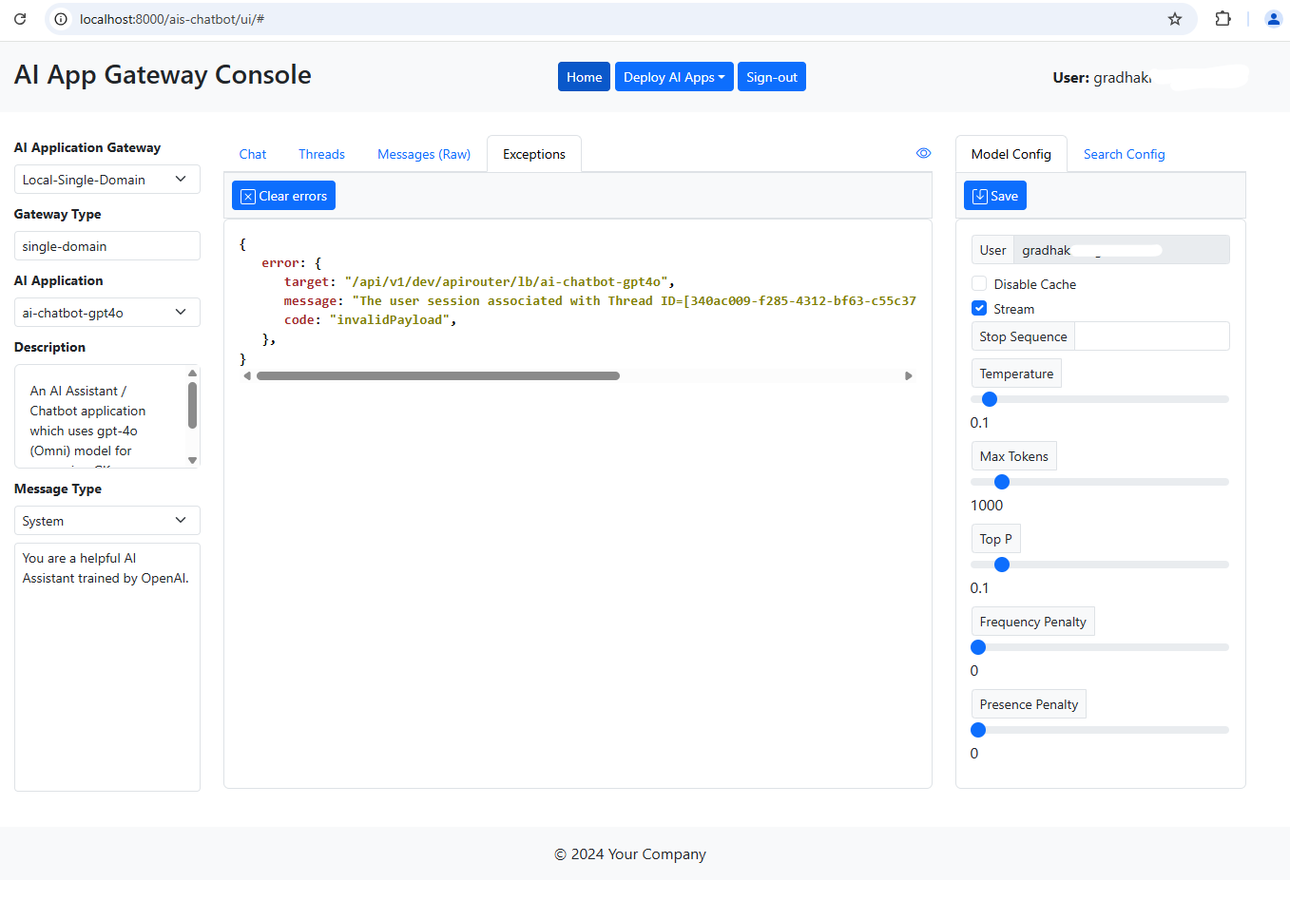
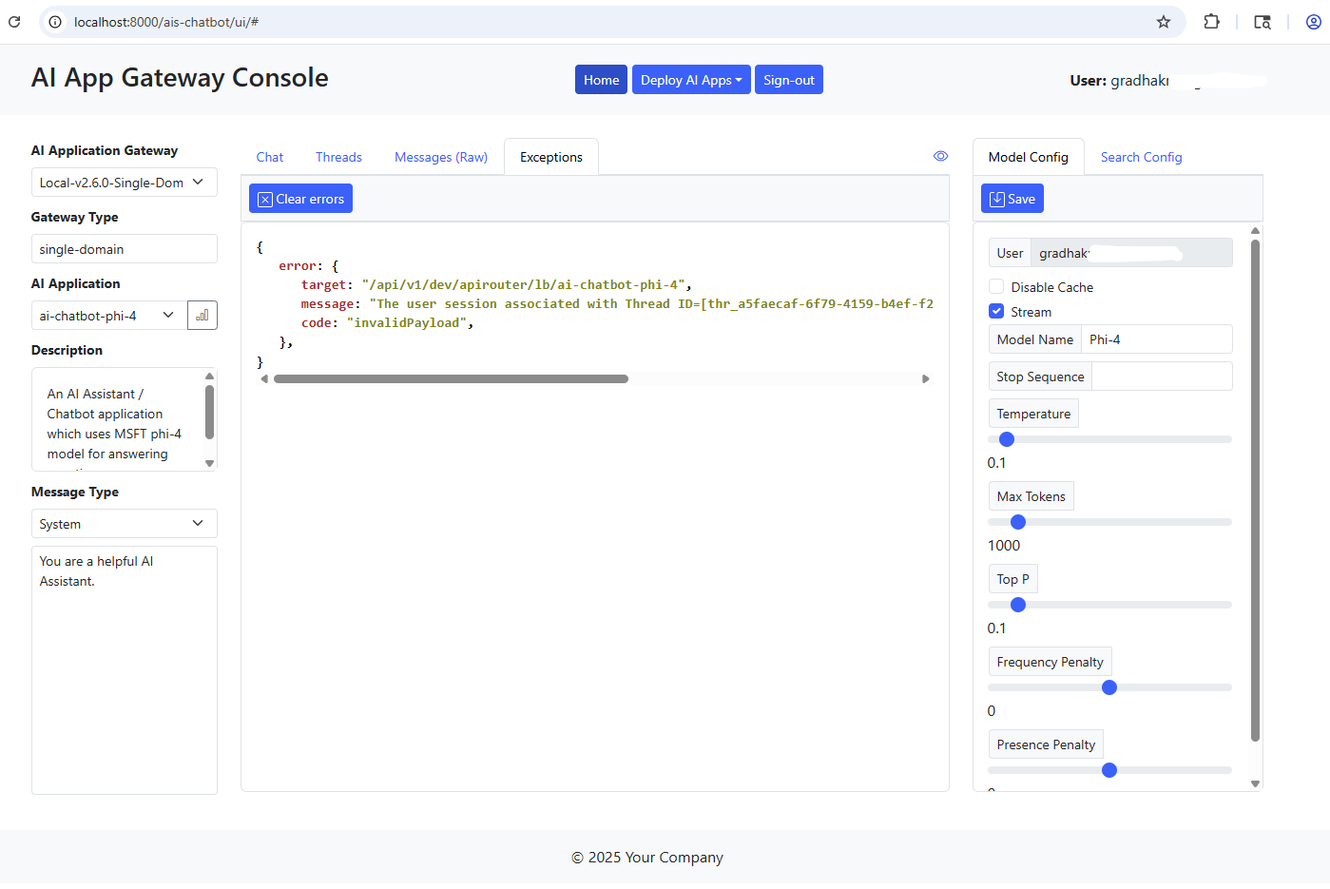
v2.6.0 Release

diff --git a/frontend/jscripts/aiAppForm.js b/frontend/jscripts/aiAppForm.js
@@ -8,6 +8,9 @@
  * Notes:
  * ID04302025: ganrad: v2.3.2-v1.3.0: Introduced new fields - applyAffinity and endpoint id.
  * ID05142025: ganrad: v2.3.8-v1.3.0: Introduced fields for personalization / long term user memory feature.
+ * ID09192025: ganrad: v2.6.0-v1.3.2: (Bugfix) 1) When defining a new AI App., AI Model Inf. API fails if 'stop' parameter contains an 
+ * empty string.  Hence commented out stop parameter. Same with presence and frequency penalty. 2) Search distance value was being sent as-is (0 - 100).  Value is now converted 
+ * into a decimal value between 0.0 & 1.0 before the AI App definition is sent to the server.
  */
 let priorityCounter = 0; // Endpoint uri priority counter
 
@@ -140,7 +143,7 @@ document.addEventListener('DOMContentLoaded', function() {
       return;
     const epid = document.getElementById('epId').value; // ID04302025.n
 
-    const rpm = document.getElementById('rpm').value;
+    const rpm = document.getElementById('rpm').value || 0;
 
     const tbody = table.querySelector('tbody');
     const newRow = document.createElement('tr');
@@ -197,6 +200,8 @@ async function callAiAppGatewayApi(appObject) { // private
     requestHdrs.append('Authorization', bearer);
   };
 
+  console.log(`callAiAppGatewayApi(): AI App Payload:\n${JSON.stringify(appObject, null, 2)}`);
+
   let respJson;
   const tstatus = document.getElementById('toastStatus');
   try {
@@ -227,7 +232,7 @@ async function callAiAppGatewayApi(appObject) { // private
       }
     };
     tstatus.innerHTML = "<span class='text-danger'>" + "FAILED" + "</span>";
-    console.log(`callAiAppGatwayApi(): Encountered exception\n  ${respJson}`);
+    console.log(`callAiAppGatwayApi(): Encountered exception\n${respJson}`);
   };
 
   return(respJson);
@@ -274,7 +279,7 @@ async function registerAiAppInServer(payload) { // private
       console.log(`registerAiAppInServer(): Encountered exception while registering AI App in Frontend server.  Check server logs.\n  ${data}`);
   }
   catch (error) {
-    console.log(`registerAiAppInServer(): Encountered exception. Check server logs.\n  ${error}`);
+    console.log(`registerAiAppInServer(): Encountered exception. Check server logs.\n${error}`);
   };
 
   return(ret_val);
@@ -299,13 +304,13 @@ async function registerAiApp(appId,desc) { // private
           max_tokens: 1000,
           top_p: 0.1,
           stream: false,
-          stop: "",
-          frequency_penalty: 0,
-          presence_penalty: 0
+          // stop: "", ID09192025.o
+          // frequency_penalty: 0,
+          // presence_penalty: 0
         }
       }
     };
-    console.log(`Sending Payload:\n ${JSON.stringify(req_body,null,2)}`);
+    console.log(`registerAiApp(): Sending Payload:\n${JSON.stringify(req_body,null,2)}`);
 
     // Register Ai App in frontend (UI) server
     const st = await registerAiAppInServer(req_body);
@@ -353,7 +358,7 @@ async function deployAiApplication() {
       cacheObject.useCache = true;
       const srchTypeElem = document.getElementById('searchType');
       cacheObject.searchType = srchTypeElem.options[srchTypeElem.selectedIndex].value;
-      cacheObject.searchDistance = parseInt(document.getElementById('searchDistance').value);
+      cacheObject.searchDistance = parseInt(document.getElementById('searchDistance').value) / 100; // ID09192025.n
       const srchContentObject = new Object();
       const srchTermElem = document.getElementById('term');
       srchContentObject.term = srchTermElem.options[srchTermElem.selectedIndex].value;
@@ -388,6 +393,8 @@ async function deployAiApplication() {
       longTermMemObject.generateFollowupMsgs = followups.checked;
 
       longTermMemObject.userFactsAppName = document.getElementById('factsAppName').value;
+      const extRoleElem = document.getElementById('extractRoles');
+      longTermMemObject.extractRoleValues = extRoleElem.options[extRoleElem.selectedIndex].value;
       longTermMemObject.extractionPrompt = document.getElementById('extractionPrompt').value;
       longTermMemObject.followupPrompt = document.getElementById('followUpPrompt').value;
     }
@@ -402,12 +409,13 @@ async function deployAiApplication() {
 
       const cells = row.querySelectorAll('td');
       endpointObj.id = cells[1].textContent; // ID04302025.n
-      endpointObj.rpm = parseInt(cells[2].textContent);
+      // endpointObj.rpm = parseInt(cells[2].textContent, 10;  // ID09192025.o
       endpointObj.uri = cells[3].textContent;
       endpointObj.apikey = cells[4].textContent;
       // console.log(`Priority: ${rowIndex}, Uri: ${endpointObj.uri}`);
       
-      endpointsArray.push(endpointObj);
+      // Use conditional short-circuiting to add the rpm attribute)
+      endpointsArray.push( { ...endpointObj, ...(parseInt(cells[2].textContent, 10) > 0 && { rpm: parseInt(cells[2].textContent, 10)}) }); // ID09192025.n
     });
 
     let aiAppObj = {
@@ -420,11 +428,11 @@ async function deployAiApplication() {
       personalizationSettings: longTermMemObject, // ID05142025.n
       endpoints: endpointsArray
     };
-    console.log(`AI Application:\n ${JSON.stringify(aiAppObj, null, 2)}`);
+    // console.log(`AI Application:\n ${JSON.stringify(aiAppObj, null, 2)}`);
 
     // 2. Call Ai App Gateway CP API to post the new Ai App definition
     const responseObj = await callAiAppGatewayApi(aiAppObj);
-    console.log(`AI App Gateway Response:\n ${JSON.stringify(responseObj, null, 2)}`);
+    console.log(`deployAiApplication(): AI App Gateway Response:\n${JSON.stringify(responseObj, null, 2)}`);
     // spinnerOverlay.classList.add('d-none'); // Hide the spinner overlay (busy icon)
 
     // 3. Register Ai App Definition with Frontend (UI) server

diff --git a/frontend/jscripts/ai-gateway-core.js b/frontend/jscripts/ai-gateway-core.js
@@ -32,7 +32,9 @@
  * ID08052025: ganrad: v2.4.0-v1.3.1: (Enhancement) Model name can now be specified by the user (in UI) and passed to the AI App Gateway.
  * ID08282025: ganrad: v2.4.5-v1.3.1: (Bugfix) Az Direct Models such as Llama, Grok do not require a 'system' message.
  * ID09162025: ganrad: v2.6.0-v1.3.2: (Enhancement) Introduced support for user feedback capture for models/agents deployed on Azure AI Foundry.
+ * ID09192025: ganrad: v2.6.0-v1.3.2: (Bugfix) AI Model Inf. API fails if 'stop' parameter is sent with null/"" value.
 */
+
 // Adjust the system prompt as needed
 const defaultPrompt = "You are a helpful AI Assistant trained by OpenAI."; // Default prompt
 const uiUserName = "user-" + Date.now().toString(36) + Math.random().toString(36).substring(2, 8); // ID06062025.n
@@ -260,7 +262,7 @@ function setInferenceTarget() {
   document.getElementById("uid").value = isAuthEnabled ? username : uiUserName; // ID06062025.n
   document.getElementById("stream").checked = aiAppObject.model_params.stream;
   document.getElementById("stopSequence").value = aiAppObject.model_params.stop ?? ''; // ID08052025.n
-  document.getElementById("modelName").value = aiAppObject.model ?? ''; // ID08052025.n
+  document.getElementById("modelName").value = aiAppObject.model_params.model ?? ''; // ID08052025.n
   document.getElementById("temperature").value = aiAppObject.model_params.temperature;
   document.getElementById("temp_o").value = aiAppObject.model_params.temperature;
   document.getElementById("mtokens").value = aiAppObject.model_params.max_tokens;
@@ -275,7 +277,7 @@ function setInferenceTarget() {
 
   // Construct & populate a new prompt object
   promptObject = {
-    model: aiAppObject.model, // ID06162025.n
+    model: aiAppObject.model_params.model, // ID06162025.n
     messages: [],
     // max_tokens: aiAppObject.model_params.max_tokens,  // ID06052025.n
     max_completion_tokens:  aiAppObject.model_params.max_tokens,
@@ -285,10 +287,20 @@ function setInferenceTarget() {
     // stream_options: aiAppObject.model_params.stream ? { include_usage: true } : null,
     temperature: aiAppObject.model_params.temperature,
     top_p: aiAppObject.model_params.top_p,
-    stop: aiAppObject.model_params.stop ?? null, // ID08052025.n
-    presence_penalty: aiAppObject.model_params.presence_penalty ?? null,
-    frequency_penalty: aiAppObject.model_params.frequency_penalty ?? null
+    // stop: aiAppObject.model_params.stop ?? null, // ID08052025.n, ID09192025.o
+    // presence_penalty: aiAppObject.model_params.presence_penalty ?? null, // ID09192025.o
+    // frequency_penalty: aiAppObject.model_params.frequency_penalty ?? null // ID09192025.o
   };
+
+  // presence_penalty and frequency_penalty are not supported by all ADM's.  Hence this unnecessary workaround! ID09192025.n
+  promptObject = {
+    ...promptObject,
+    ...( aiAppObject.model_params.presence_penalty !== undefined && { presence_penalty: aiAppObject.model_params.presence_penalty} ),
+    ...( aiAppObject.model_params.frequency_penalty !== undefined && { frequency_penalty: aiAppObject.model_params.frequency_penalty} )
+  };
+
+  if ( aiAppObject.model_params.stop ) // ID09192025.n
+    promptObject.stop = aiAppObject.model_params.stop;
 
   // Create and populate ai search data source
   let srchParams = aiAppObject.search_params;
@@ -404,10 +416,10 @@ function saveContent(configName) {
     promptObject.max_completion_tokens = Number(document.getElementById("mtokens").value); // ID06052025.n
     promptObject.temperature = Number(document.getElementById("temperature").value);
     let value = Number(document.getElementById("presence").value); // ID08052025.n
-    if ( value > 0 )
+    if ( value !== 0 )
       promptObject.presence_penalty = value;
     value = Number(document.getElementById("frequency").value);
-    if ( value > 0 )
+    if ( value !== 0 )
       promptObject.frequency_penalty = value;
     value = document.getElementById("stopSequence").value; // ID11082024.n
     if ((value !== "undefined") && (value.trim().length > 0))

diff --git a/frontend/public/index.html b/frontend/public/index.html
@@ -339,13 +339,13 @@
               <div class="input-group input-group-sm mb-2">
                 <span class="input-group-text">Frequency Penalty</span>
                 <input id="frequency" type="range" aria-label="Frequency Penalty" class="form-range" value="0"
-                  step="0.1" min="0" max="2" oninput="this.nextElementSibling.value = this.value" /><output
+                  step="0.01" min="-2" max="2" oninput="this.nextElementSibling.value = this.value" /><output
                   id="freq_o"></output>
               </div>
               <div class="input-group input-group-sm mb-2">
                 <span class="input-group-text">Presence Penalty</span>
-                <input id="presence" type="range" aria-label="Presence Penalty" class="form-range" value="0" step="0.1"
-                  min="0" max="2" oninput="this.nextElementSibling.value = this.value" /><output id="perf_o"></output>
+                <input id="presence" type="range" aria-label="Presence Penalty" class="form-range" value="0" step="0.01"
+                  min="-2" max="2" oninput="this.nextElementSibling.value = this.value" /><output id="perf_o"></output>
               </div>
             </div>
           </div>
@@ -506,12 +506,13 @@
                 <div class="col">
                   <div class="form-floating mb-1">
                     <select class="form-select form-select-sm" id="appType" name="appType" required>
+                      <option value="azure_oai" selected>Azure OpenAI</option>
+                      <option value="azure_aimodel_inf">Azure AI Model Inference</option>
+                      <option value="azure_ai_agent">AI Foundry Agent</option>
                       <option value="azure_language">Azure Language</option>
                       <option value="azure_translator">Azure Translator</option>
                       <option value="azure_content_safety">Azure Content Safety</option>
                       <option value="azure_search">Azure Search</option>
-                      <option value="azure_oai" selected>Azure OAI</option>
-                      <option value="azure_aimodel_inf">Azure AI Model Inf</option>
                     </select>
                     <label class="form-label" for="appType">Type of AI Application</label>
                   </div>
@@ -728,7 +729,7 @@
               <div class="col">
                 <div class="form-floating mb-1">
                   <input class="form-control form-control-sm" id="epId" name="epId" type="text"
-                    placeholder="Unique Endpoint ID" />
+                    placeholder="Unique Endpoint/Agent ID" />
                   <label class="form-label" for="uri">Unique Endpoint ID</label>
                 </div>
               </div>

diff --git a/frontend/README.md b/frontend/README.md
@@ -1,18 +1,18 @@
 # AI Application Gateway Console (Single Page Application/Frontend)
 
-This AI Gateway console application provides a thin client (browser) based user interface for interacting with AI Applications deployed on Azure AI Application Gateway's. It's meant to be a starting point, and you're welcome to use it as is or customize and integrate the user interface components into your own web applications.
+The AI Gateway console application provides a thin client (browser) based user interface for interacting with AI Applications deployed on Azure AI Application Gateway's. It's meant to be a starting point, and you're welcome to use it as is or customize and integrate the user interface components into your own web applications.
 
 The gateway console application can be used for completing the following tasks -
 1. Define and deploy new AI Applications on local/remote AI Application Gateway instances.  These instances could be distributed and running on disparate hosts within the Azure network.
 2. Interact with deployed AI Applications using the chat user interface
-3. Evaluate and explore value add features supported by the AI Application Gateway such as caching, state management, observability, intelligent traffic management, LLM response streaming, A/B testing of LLM's ... other features.
+3. Evaluate and explore value add features supported by the AI Application Gateway such as caching, state management, long term memory, cost tracking, observability, intelligent traffic management, user feedback tracking, LLM response streaming, A/B testing of LLM's ... other features.
 
 The sections below detail the following steps -
 
 1. Running the AI Gateway Console application on a Azure Linux virtual machine (Standalone server)
-2. Containerizing the console application and running it on a Azure Linux VM
-3. Using the gateway console to define and deploy an AI Application on a running AI Application Gateway instance
-3. Deploying and running the gateway console application as a containerized microservice on Kubernetes (AKS)
+2. Using the gateway console to define and deploy an AI Application on a AI Application Gateway instance
+3. Containerizing the console application and running it on a Azure Linux VM
+4. Deploying and running the gateway console application as a containerized microservice on Kubernetes (AKS)
 
 Containerized deployment of AI Application Gateway Console is highly recommended for production deployments.
 
@@ -40,7 +40,7 @@ Containerized deployment of AI Application Gateway Console is highly recommended
 
 3. Configure AI Application Gateway's and AI Applications.
 
-   The AI Application Gateway Console can be used to interact with AI Applications which have been configured with one or more AI Application Gateway's (a.k.a backends).
+   The AI Application Gateway Console can be used to interact with AI Applications which are hosted on one or more AI Application Gateway instances (a.k.a backends).
 
    Update default parameter values in the provided sample gateway console configuration file - `app-config.json`. Configure AI Application Gateways and AI Applications as per your requirements.
 
@@ -50,7 +50,7 @@ Containerized deployment of AI Application Gateway Console is highly recommended
    -------------- | ----------------- | ----------- |
    name | Yes | Name of the AI Application Gateway.  This can be any name which uniquely identifies the backend AI Application Gateway server/instance.
    type | Yes | Type of the AI Application Gateway.  Currently, two gateway types are supported 1) **Single domain** & 2) **Multi domain**<br>`type` should be set to one of these values - `single-domain`, `multi-domain`
-   uri | Yes | AI Application Gateway URI. Should be in the format:<br> http://[host:port]/api/v1/[env]/apirouter<br>Make sure there are no trailing slashes!
+   uri | Yes | AI Application Gateway URI. Should be in the format:<br> http://[host:port]/api/v1/[env]/apirouter<br>**IMP:** Make sure there are no trailing slashes!
    ai_apps | Yes | An array of AI Applications that have been configured in the respective AI Application Gateway.  Refer to the next section for details.
 
    For each AI application, specify correct values for all required parameters.  Many of the application parameters are identical to parameters exposed by Azure OpenAI Chat Completion REST API.  Hence refer to the [Azure OpenAI API documentation](https://learn.microsoft.com/en-us/azure/ai-services/openai/reference) for description and usage information on *model_params* and *search_params*.
@@ -84,12 +84,12 @@ Containerized deployment of AI Application Gateway Console is highly recommended
    You will see the application server startup message as shown in the snippet below.
 
    ```bash
-   > ai-chatbot-frontend@1.2.0 start
+   > ai-chatbot-frontend@1.3.2 start
    > node ./src/server.js
 
-   [2025/03/21 09:46:00.524] [LOG] Server(): Server configuration file: [./app-config.json]
-   [2025/03/21 09:46:00.526] [LOG] Server(): Azure AI Application Gateway API security: [true]
-   [2025/03/21 09:46:00.587] [LOG] Server(): AI Chatbot Application server is listening on localhost:8000.
+   [2025/09/18 19:21:36.670] [LOG] Server(): Server configuration file: [./app-config.json]
+   [2025/09/18 19:21:36.674] [LOG] Server(): Azure AI Application Gateway API security: [true]
+   [2025/09/18 19:21:36.797] [LOG] Server(): AI Chatbot Application server is listening on localhost:8000.
    ```
 
    Leave this terminal window open.
@@ -107,10 +107,12 @@ Containerized deployment of AI Application Gateway Console is highly recommended
    First select the AI Application Gateway in the **AI App Gateway** dropdown field. The **Gateway Type** field will be auto populated.
 
    Use the **AI Application** dropdown field to select an AI Application.  This will populate the description field and default parameter values for the selected AI Application as per the values specified in the gateway console configuration file.  You can update the model and search parameter values displayed in the right panel (**Model Config / Search Config**).
-   
-   **NOTE:** Remember to save the model and search configuration parameter values before proceeding.
 
-   Use the **Message Type** dropdown field to select the appropriate message type (role). This message is usually used to provide a set of instructions to the LLM.  Leave the default value **System** for all gpt and open source LLM's.  For advanced reasoning models such as o1 or o1-mini, the type should be set to **Developer**.  Update the system prompt.
+   If the AI Foundry model you are targeting expects a *model* parameter value in the request payload, input the same in the **Model Name** field under the *Model Config* panel on the right.
+   
+   > **NOTE:** Remember to save the model and search configuration parameter values before proceeding.
+
+   Use the **Message Type** dropdown field to select the appropriate message type (role). This message is usually used to provide a set of instructions to the LLM.  Leave the default value **System** for most if not all gpt models.  For advanced reasoning models such as o1 or o1-mini, the type should be set to **Developer**.  For some LLM's such as *Grok*, where system prompt is not available, select **None**.  Update the system prompt.
    
    Lastly, input the *Prompt* in the field located at the bottom of the middle column.  Hit **Send**.  You should be able to view the results in the content panel right above the Prompt field.  See screenshot below.
 
@@ -124,9 +126,9 @@ Containerized deployment of AI Application Gateway Console is highly recommended
 
    Click on the **Thread ID** (column = `Thread_id`) to view the requests associated with this user session/thread.  You can also clear the current chat session by clicking on **Clear chat** button in the **Chat** tab.
    
-   You can update the model and search parameters on the right panel.  Remember to save the values prior to starting a chat session. See screenshots below.
+   You can update the model and search parameters on the right panel.  Remember to **Save** the values prior to starting a chat session. See screenshots below.
 
-   Model Params | AI Search Params (Only used for Azure OpenAI OYD calls) |
+   Model Params | AI Search Params (Only used for Azure AI Foundry OYD calls) |
    ------------ | ---------------------------------------------------- |
    ![alt tag](./images/ai-chat-application-06.PNG) | ![alt tag](./images/ai-chat-application-07.PNG)
    
@@ -135,11 +137,15 @@ Containerized deployment of AI Application Gateway Console is highly recommended
  
    ![alt tag](./images/ai-chat-application-04.PNG)
 
+   Click on the **View call metrics** button beside the *AI Application* dropdown field, to view the API metrics information as shown in the screenshot below.
+
+   ![alt tag](./images/ai-chat-application-13.PNG)
+
    Lastly, you can review any errors returned by the AI Application Gateway in the **Exceptions** tab.  See screenshot below.
 
    ![alt tag](./images/ai-chat-application-05.PNG)
 
-### C. Define and deploy an AI Application on AI Application Gateway instance
+### C. Define and deploy an *AI Application* on a AI Application Gateway instance
 
 1. Define the AI Application configuration parameters
 
@@ -147,9 +153,15 @@ Containerized deployment of AI Application Gateway Console is highly recommended
 
    ![alt tag](./images/ai-chat-application-08.PNG) 
    
-   This action will open the **Single Domain AI Application** modal dialog.  Give the AI Application a suitable **name** and **description**.  Select the **AI Application Type**.  Specify correct values for configuration parameters for semantic cache, state management (memory) and API traffic routing features.  See Screenshots below.
+   This action will open the **Single Domain AI Application** modal dialog.  Give the AI Application a suitable **name** and **description**.  Select the **AI Application Type**.  Specify correct configuration parameter values for Semantic cache, State management (memory) & Long term memory (Personalization) features.  See Screenshots below.
 
-   ![alt tag](./images/ai-chat-application-09.PNG) 
+   | Semantic Cache | State Management | Long-term Memory |
+   | -------------- | ---------------- | ---------------- |
+   | ![alt tag](./images/ai-chat-application-09-a.PNG) | ![alt tag](./images/ai-chat-application-09-b.PNG) | ![alt tag](./images/ai-chat-application-09-c.PNG) |
+
+   Under section **Traffic Routing**, specify AI Foundry model deployment endpoints, API keys and RPM limits.  See screenshot below.
+
+   ![alt tag](./images/ai-chat-application-09-d.PNG)
 
 2. Deploy the AI Application
 

diff --git a/README.md b/README.md
@@ -33,7 +33,7 @@ Recipe | Components
 | **Enhanced AI Application Deployments** | All | The AI Gateway is designed to be AI Application *Aware*, enabling Azure AI Service deployments to be provisioned once and seamlessly shared across multiple AI Applications. This approach simplifies infrastructure management and promotes efficient resource utilization across AI projects. |
 | **Model Agnostic Endpoints** | - Azure AI Foundry Models<br>- Azure AI Agent Service | The gateway exposes each AI Application through a unified endpoint, hiding the underlying AI Service model deployment endpoints from client applications. As a result, model/agent deployment endpoints can be quickly updated without requiring any changes to client applications. |
 | **Intelligent Traffic Management** | - Azure AI Foundry Models<br>- Azure AI Agent Service | The gateway provides the following API traffic management features.<br><br>**<u>Circuit Breaker</u>** Each AI Application can be configured with multiple backend endpoints, and the gateway acts as a circuit-breaker by automatically switching to the next prioritized endpoint when one is throttled (HTTP 429), while temporarily excluding throttled endpoints from traffic until they recover.<br><br>**<u>Rate Limiting</u>** Users can define RPM limits per backend endpoint. The AI Gateway enforces rate limiting by returning HTTP 429 responses to prevent overloading of an endpoint and ensure fair utilization of model capacity.<br><br>**<u>Traffic Splitting</u>** Each AI Application can be configured with any one of the built-in endpoint router implementations described below.<br>**- Priority:** (**Default**) Routes API calls based on top down order of endpoints listed in the Gateway configuration file.<br>**- Least Recently Used:** Routes API calls to endpoint that has been least recently used.<br>**- Least Active Connections:** Routes API calls to the endpoint with the fewest active connections.<br>**- Weighted Random:** Routes API calls to endpoints based on fixed weight assignments.<br>**- Feedback Weighted Random:** This decay based router adapts routing by favoring backends with recent positive feedback while gradually discounting old feedback, ensuring both responsiveness and ongoing exploration.<br>**- Latency Weighted:** Dynamically adjusts routing weights based on real-time endpoint performance, ensuring each API call is directed to the endpoint with the lowest latency for optimal responsiveness.<br>**- Payload Switch:** Routes API calls to endpoints based on the size of the HTTP request payload and configured thresholds.<br>**- Header Switch:** Routes API calls to the endpoint whose unique ID matches the value provided in the `x-endpoint-id` HTTP request header.<br>**- Model Aware:** Intelligently directs API calls to endpoints whose configured task attributes match specific phrases or terms found in the request message.<br>**- Token Aware:** Routes API requests to the most suitable endpoint by comparing the estimated token consumption of each request against the model’s maximum context size, and only directs the call if the token count is below the model's allowed maximum limit.<br>**- Time Aware:** Routes API requests to the most appropriate endpoint based on the current day of the week and time of day.<br>**- Budget Aware:** Estimates token usage with simple heuristics, calculates cost, and compares it against model-specific budget thresholds to select the most economical endpoint.<br>**- Adaptive Budget Aware:** Identifies the most cost-effective endpoint by applying the configured (built-in) routing strategy within defined budget thresholds.<br><br>**<u>Health Check Policies</u>** When enabled, the AI Gateway monitors backend endpoint latency and automatically disables an endpoint when the pre-configured response time threshold (in minutes) is exceeded. |
-| **Model Budgeting (Cost Tracking)** | Azure AI Foundry Models | When this feature is enabled for AI Applications, the AI Application Gateway calculates & stores API call costs using token counts reported by Azure AI Foundry Models, helping teams monitor usage and manage expenses effectively. This feature also helps teams stay within budget, optimize resource allocation, and make informed decisions about endpoint selection and usage. |
+| **Model Budgeting (Cost Tracking)** | Azure AI Foundry Models | The AI Application Gateway calculates & stores API call costs using token counts reported by Azure AI Foundry Models, helping teams monitor usage and manage expenses effectively. This feature also helps teams stay within budget, optimize resource allocation, and make informed decisions about endpoint selection and usage. |
 | **Semantic Caching** | Azure AI Foundry Models | This feature, integrated into the AI Application Gateway, caches OpenAI Service prompts and responses based on semantic similarity. It can improve runtime performance of LLM/AI applications by up to 40%, leveraging *PostgreSQL's* vectorization and semantic search capabilities. |
 | **Conversational State Management** | Azure AI Foundry Models (Chat Completion API only) | AI Chatbots must maintain context during end user sessions so they can reference previous user inputs, ensuring coherent and contextually relevant conversations.  This feature manages conversational state, scaling to support 10 to hundreds of concurrent user sessions for multiple AI applications. It can operate independently or with *Semantic Caching* to enhance performance. |
 | **Long-term Memory (Personalization)** | Azure AI Foundry Models (Chat Completion API only) | The AI Gateway supports long-term user memory, a feature that enables personalized interactions by continuously learning from user inputs over time. When enabled for an AI Application, the gateway extracts and stores relevant facts from user prompts such as preferences, context and behavioral patterns. It then uses this accumulated knowledge to tailor responses, maintain conversational continuity, and generate context-aware follow-up questions that reflect the user’s history and intent. |
